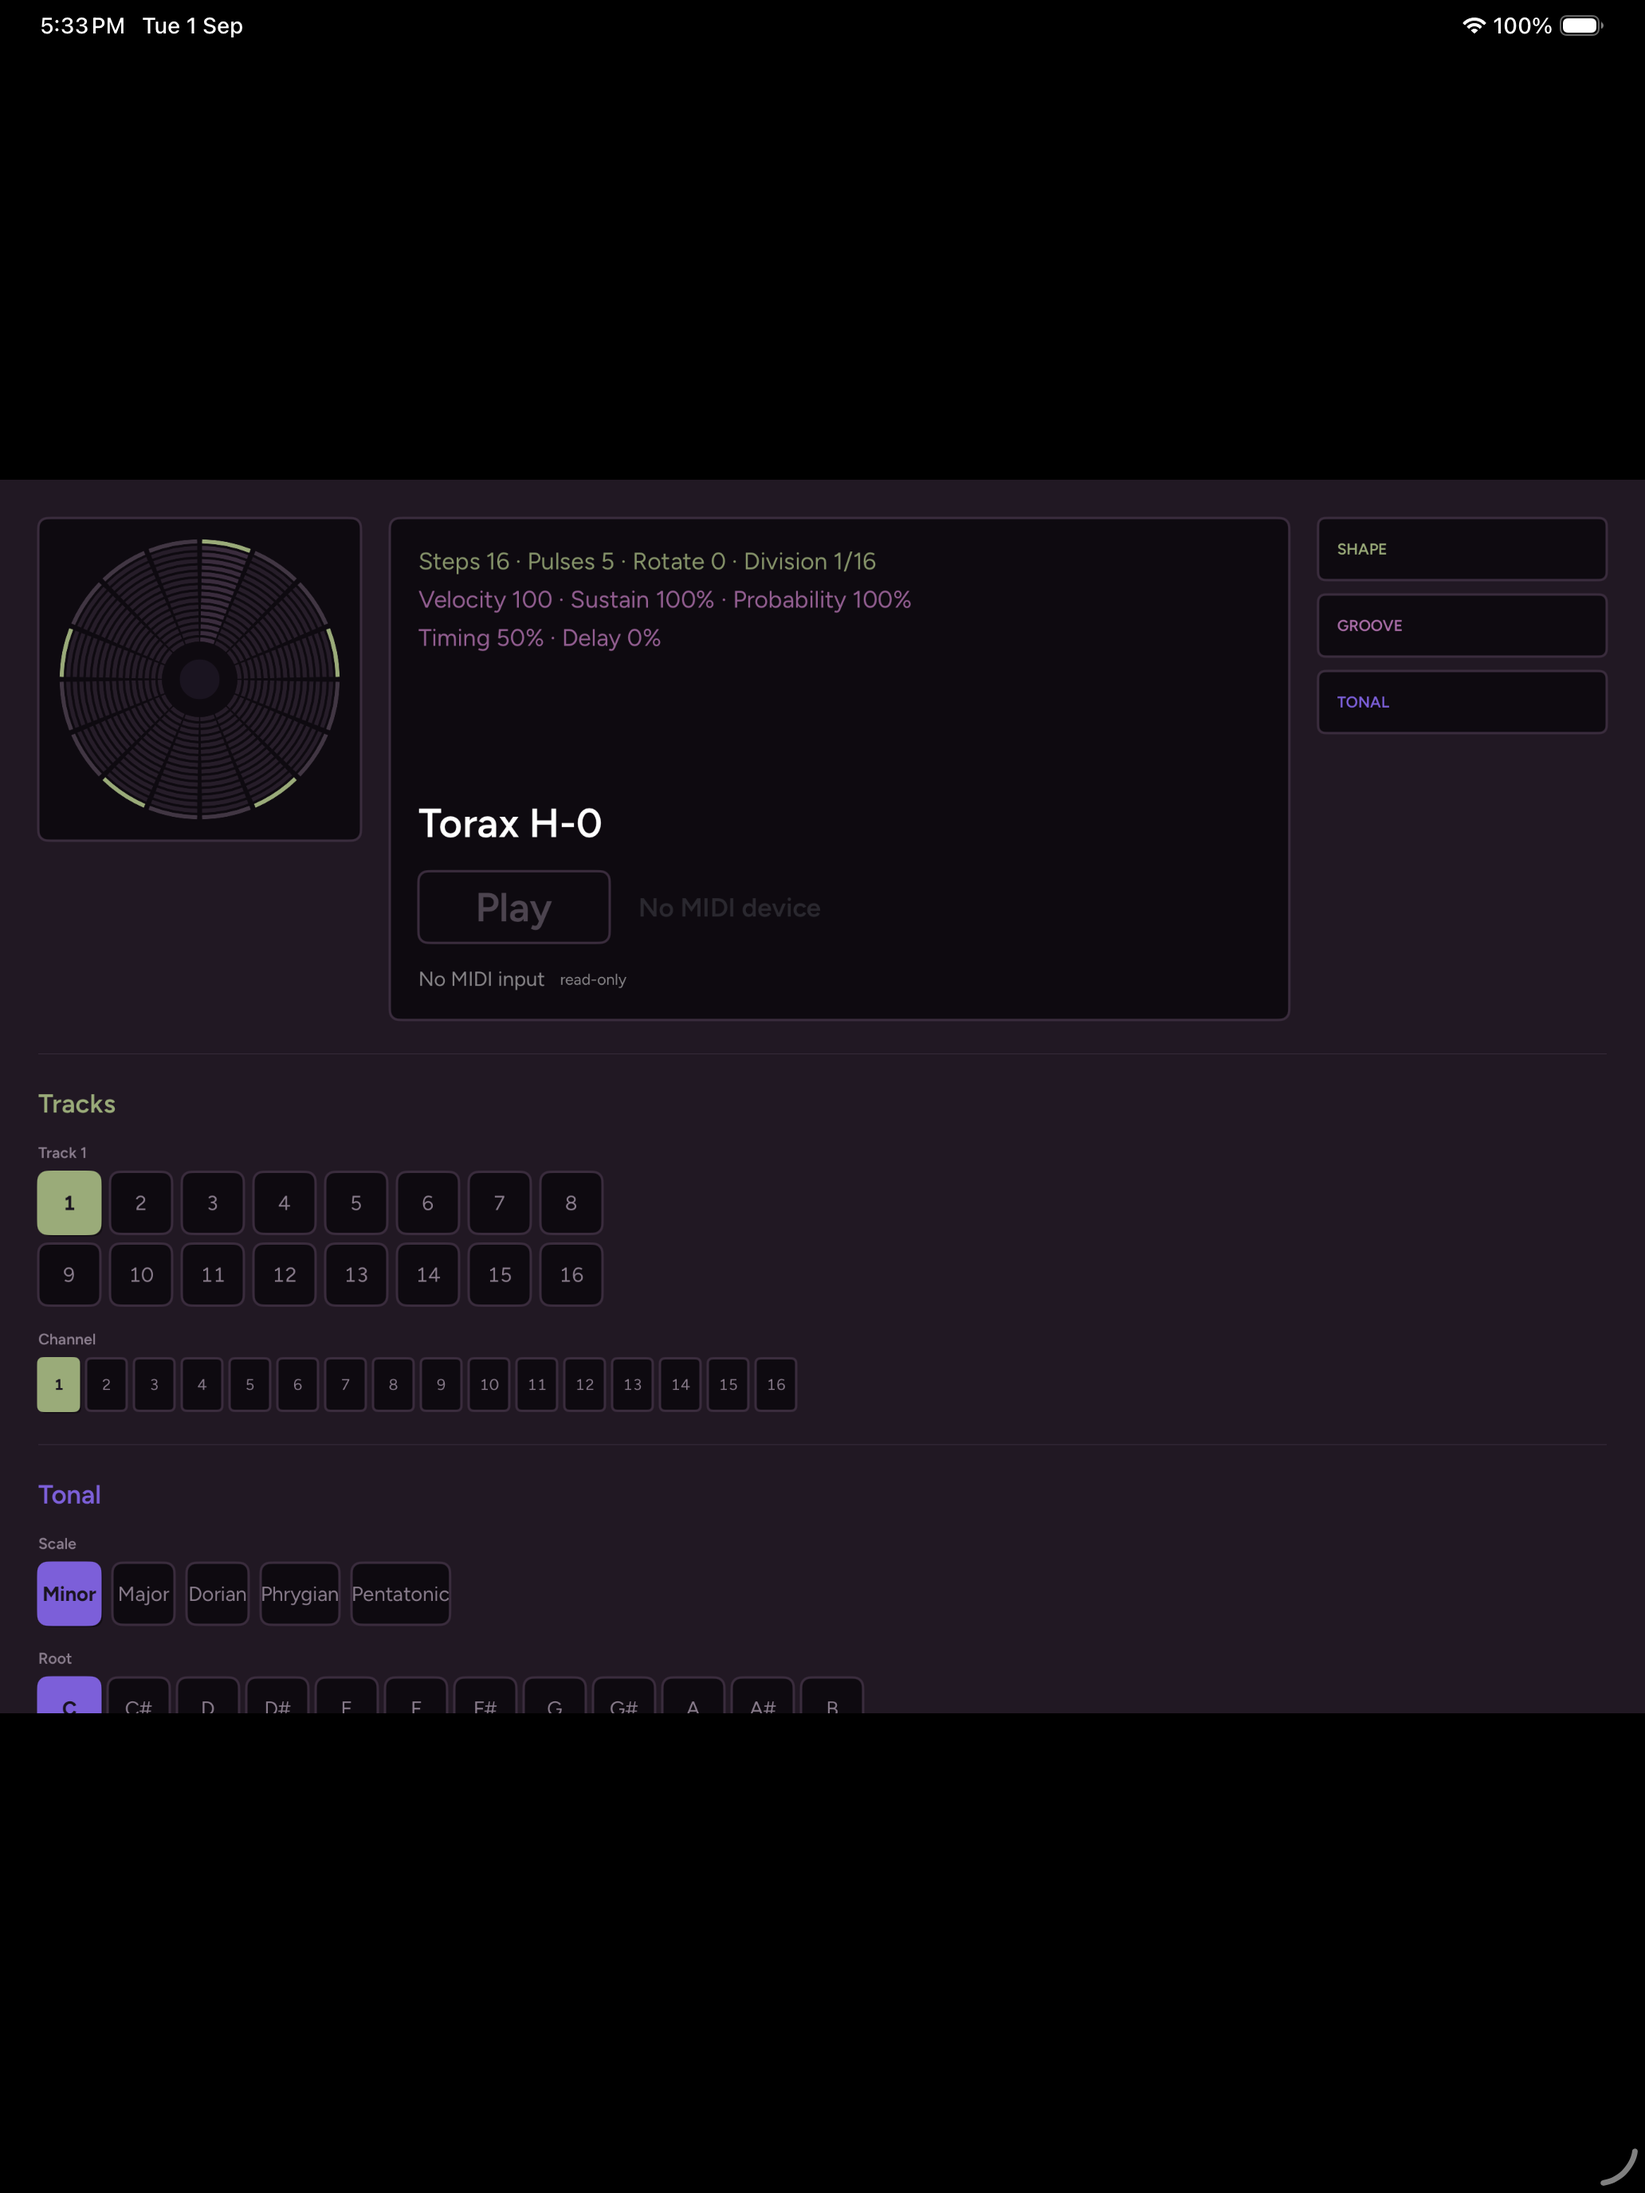
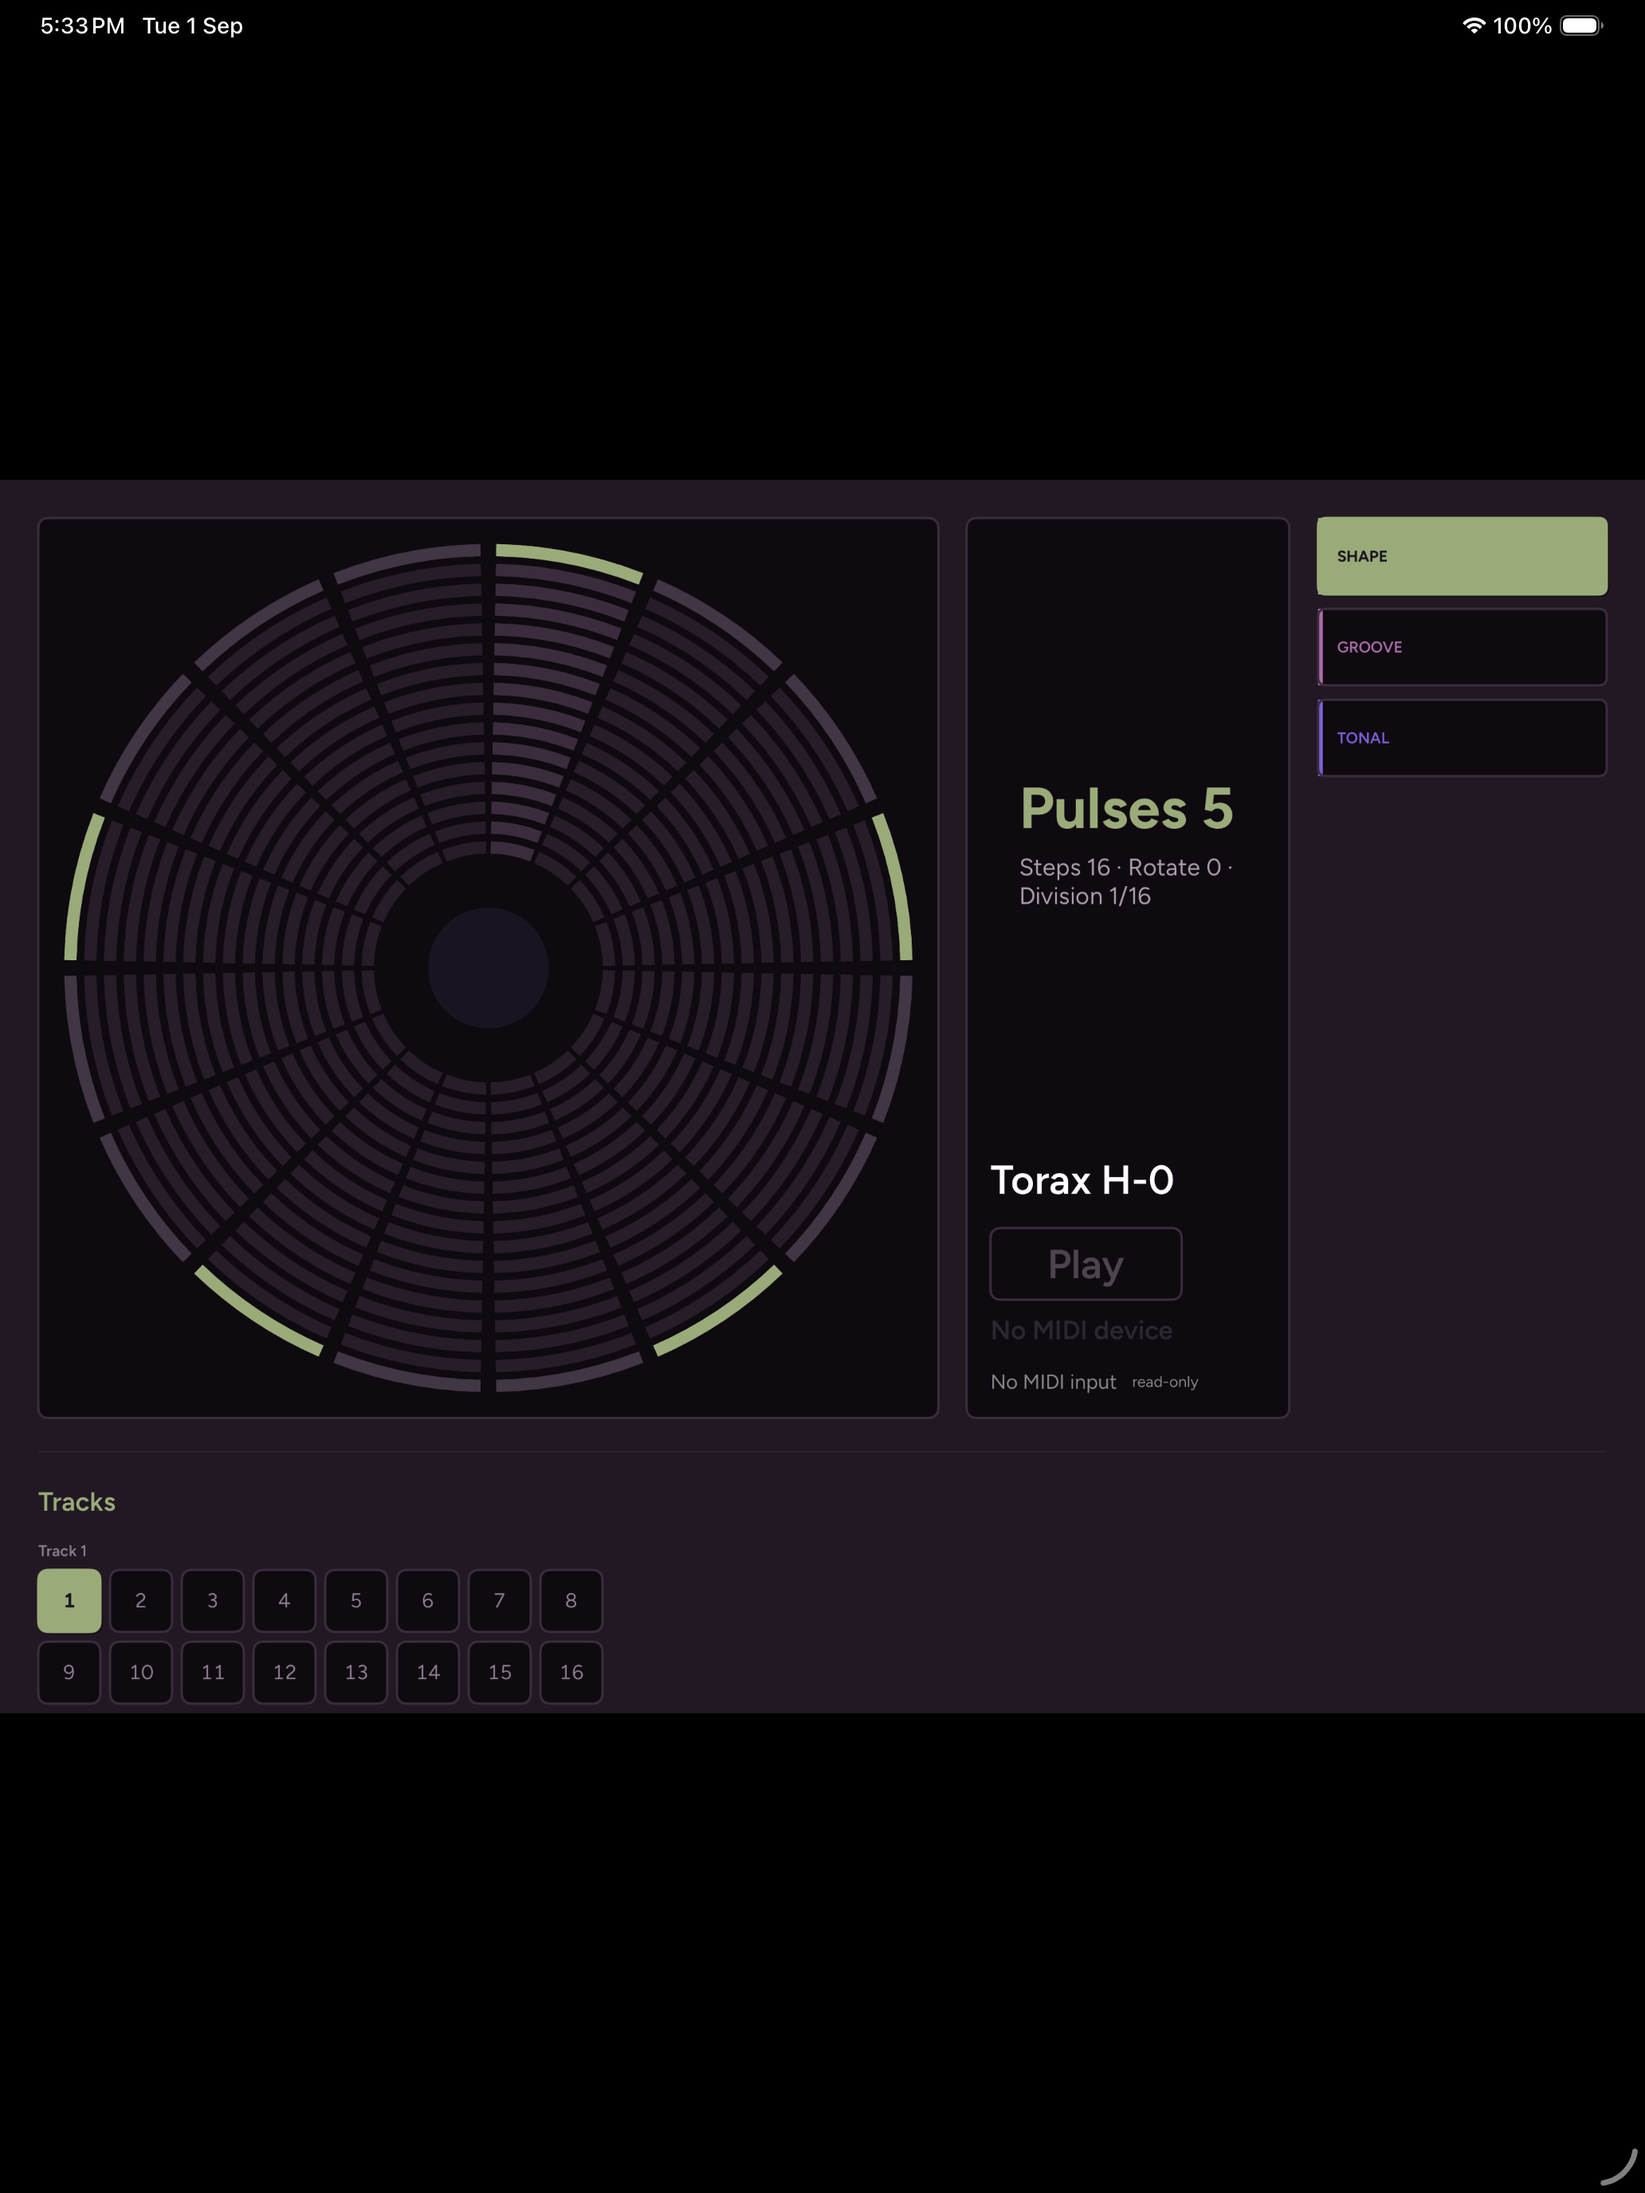
feat(ui): Give the rings the wide column and the readout the narrow one
The handoff contradicts itself here and the app wins. Its mock gives the ring
190px of 924 — a fifth — and the rest to the reading, but those proportions were
drawn for five rings. With sixteen, a fifth of the width leaves each band around
6px and the map stops being countable, which is exactly the risk FR2 declares.

So the split is inverted, decided with the user while looking at the screen. The
rings take the wide column and the reading takes the narrow one, which is what
product-guidelines.md implies anyway: what is expressive is the musical
material, and the rings are the material.

Reading and tabs are sized first and the rings take what is left, so on a wider
iPad the extra space goes where it shows — more separation between bands — and
not into stretching text that already fitted.

Two things the narrow column broke and this fixes: the transport row stacks
vertically, because in a narrow panel "No MIDI device" was wrapping letter by
letter; and the family tabs get a fixed height, because otherwise the VStack
shared the ring's height between the three and they came out ring-sized.

diff --git a/App/ContentView.swift b/App/ContentView.swift
@@ -33,9 +33,20 @@ struct ContentView: View {
     @State private var family: ParameterFamily = .shape
 
     var body: some View {
+        // **El ancho se lee una vez, arriba.** La altura del escenario depende
+        // del ancho —el anillo es cuadrado y llena su columna— y un
+        // `GeometryReader` dentro del `ScrollView` no puede dar las dos cosas
+        // sin quedar circular: el `ScrollView` pregunta la altura al contenido y
+        // el contenido la sacaría del `ScrollView`.
+        GeometryReader { screen in
+            content(width: screen.size.width - 64)
+        }
+    }
+
+    private func content(width: CGFloat) -> some View {
         ScrollView {
             VStack(alignment: .leading, spacing: 28) {
-                stage
+                stage(width: width)
                 Divider().overlay(Palette.border)
                 TrackSelectorView(
                     selected: model.selectedTrackIndex,
@@ -85,39 +96,47 @@ struct ContentView: View {
     /// que se lee de un vistazo es la *forma* —cuáles tienen material, cuál está
     /// elegido, por dónde va el tiempo—, no el detalle de un Step. El detalle es
     /// el panel.
-    private var stage: some View {
-        GeometryReader { geometry in
-            HStack(alignment: .top, spacing: 24) {
-                rings
-                    .frame(width: Self.ringColumnWidth(in: geometry.size.width))
+    private func stage(width: CGFloat) -> some View {
+        let columns = Self.columns(in: width)
 
-                readout
-                    .frame(maxWidth: .infinity, maxHeight: .infinity)
+        return HStack(alignment: .top, spacing: Self.gutter) {
+            rings
+                .frame(width: columns.rings, height: columns.rings)
 
-                families
-                    .frame(width: Self.familyColumnWidth(in: geometry.size.width))
-            }
+            readout
+                .frame(width: columns.readout, height: columns.rings)
+
+            families
+                .frame(width: columns.families, height: columns.rings)
         }
-        .frame(height: 420)
     }
 
-    /// Las proporciones del handoff, como fracciones.
-    ///
-    /// El mock mide 924 puntos de ancho y reparte 190 al anillo y 170 a los
-    /// tabs. **Se guardan como fracción y no como puntos** porque el iPad más
-    /// grande es medio ancho mayor que el mock: a puntos fijos, el anillo
-    /// encogería en relativo hasta perderse y el centro se llevaría todo lo que
-    /// sobra.
-    ///
-    /// El mínimo existe porque por debajo de él dieciséis bandas dejan de
-    /// contarse; el máximo, porque el anillo no es el protagonista de la
-    /// superficie aunque lo sea de la lectura.
-    static func ringColumnWidth(in total: CGFloat) -> CGFloat {
-        min(max(total * (190.0 / 924.0), 190), 320)
-    }
+    /// El hueco entre columnas.
+    static let gutter: CGFloat = 24
 
-    static func familyColumnWidth(in total: CGFloat) -> CGFloat {
-        min(max(total * (170.0 / 924.0), 170), 260)
+    /// El reparto horizontal.
+    ///
+    /// > **Aquí el handoff se contradice consigo mismo, y gana la app.** El mock
+    /// > da al anillo 190 puntos de 924 —un quinto— y el resto a la lectura. Esas
+    /// > proporciones se dibujaron para **cinco** anillos; con dieciséis, un
+    /// > quinto del ancho deja cada banda en unos 6 puntos y el mapa deja de
+    /// > poder contarse. El anillo es lo que la pantalla existe para enseñar
+    /// > —`product-guidelines.md`: lo expresivo es el material musical— así que
+    /// > se lleva el ancho grande y la lectura se queda con el estrecho.
+    /// >
+    /// > **Decidido con el usuario el 2026-09-01**, viendo la pantalla:
+    /// > «la columna central es demasiado grande; el ancho del anillo debería ser
+    /// > el ancho actual de la columna central».
+    ///
+    /// La lectura y los tabs se calculan primero y **el anillo se queda con lo
+    /// que sobra**: así, en un iPad más ancho, el espacio de más va a donde se
+    /// nota —más separación entre bandas— y no a estirar un texto que ya cabía.
+    static func columns(in total: CGFloat) -> (rings: CGFloat, readout: CGFloat, families: CGFloat)
+    {
+        let families = min(max(total * (170.0 / 924.0), 170), 260)
+        let readout = min(max(total * (190.0 / 924.0), 190), 320)
+        let rings = max(total - families - readout - gutter * 2, 240)
+        return (rings, readout, families)
     }
 
     /// La columna izquierda: los dieciséis anillos y nada más.
@@ -162,7 +181,7 @@ struct ContentView: View {
             transport
         }
         .frame(maxWidth: .infinity, alignment: .leading)
-        .padding(24)
+        .padding(20)
         .brutalistPanel()
     }
 
@@ -222,7 +241,9 @@ struct ContentView: View {
                     .foregroundStyle(isActive ? Palette.toolbar : accent)
                 Spacer(minLength: 0)
             }
-            .frame(minHeight: 52)
+            // Alto fijo: sin él, el `VStack` reparte entre los tres el alto de
+            // la columna y los tabs quedan del tamaño del anillo.
+            .frame(height: 64)
             .padding(.trailing, 16)
         }
         .buttonStyle(.plain)
@@ -277,7 +298,10 @@ struct ContentView: View {
             Text("Torax H-0")
                 .font(Typography.appTitle)
 
-            HStack(spacing: 24) {
+            // **En columna y no en fila.** Con el panel de lectura estrecho
+            // (FR14) una fila deja `No MIDI device` partiéndose letra a letra,
+            // que es peor que ocupar dos renglones.
+            VStack(alignment: .leading, spacing: 12) {
                 // **Era `.borderedProminent`, que dibuja una pastilla completa**,
                 // y FR9 lo prohíbe: el radio pequeño y constante es lo que hace
                 // que la pantalla se lea como un aparato y no como un formulario.

diff --git a/conductor/tracks/screen-handoff_20260901/spec.md b/conductor/tracks/screen-handoff_20260901/spec.md
@@ -143,22 +143,20 @@ composición sin mock que la respalde sería inventar producto, que es justo lo
 que esta rebanada dice no hacer. El iPad se usa apaisado, delante del
 controlador.
 
-> **Lo que esto le cuesta a FR2.** En el mock, el anillo ocupa **190px de 924**:
-> una columna izquierda estrecha, no la mitad de la pantalla. Dieciséis bandas en
-> 190px son unos 6px por banda. El riesgo de legibilidad del playhead a un metro
-> es bastante más agudo de lo que sugiere mirar el anillo en grande, y es ahí
-> —a su tamaño real, apaisado— donde la Fase 6 tiene que juzgarlo.
+> **Lo que esto le costaba a FR2, y cómo se resolvió.** Con los 190px de 924 del
+> mock, dieciséis bandas quedaban en unos 6px cada una y el playhead era
+> ilegible por construcción. **FR14 invierte el reparto** y el anillo pasa a
+> llevarse el ancho grande, que es la respuesta a ese riesgo tomada antes de
+> llegar al dispositivo. La Fase 6 lo confirma a un metro.
 
 ### FR14 — Los anillos a la izquierda, todo lo demás a la derecha
 
 **Añadido el 2026-09-01**, junto a FR13 y por la misma razón: estaba supuesto y
 no escrito.
 
-La composición apaisada es la del handoff, y su reparto horizontal es una
-decisión, no una consecuencia del espacio: **los anillos ocupan una columna
-estrecha a la izquierda —190px de 924 en el mock— y todo lo demás vive a su
-derecha**: el panel de lectura en el centro, y los tabs de familia en una
-columna de 170px al borde. El selector de Tracks va debajo, cruzando el ancho.
+**Los anillos a la izquierda y todo lo demás a su derecha**: el panel de lectura
+en el centro y los tabs de familia en la columna del borde. El selector de Tracks
+va debajo, cruzando el ancho.
 
 **Por qué importa que sea izquierda y no centro.** Hoy `ContentView` apila todo
 en una sola columna vertical con el anillo arriba, que es lo que la rebanada 1
@@ -166,9 +164,20 @@ necesitaba para operar y no lo que la pantalla del producto es. Poner los anillo
 a un lado y la lectura al otro es lo que permite que el valor grande no los tape
 nunca (FR3): son dos regiones que no se solapan, en vez de una encima de otra.
 
-**El anillo pequeño es intencional.** Ocupa un quinto del ancho porque lo que se
-lee de un vistazo es *la forma* —cuáles tienen material, cuál está elegido, por
-dónde va el tiempo—, no el detalle de un Step. El detalle es el panel.
+> **Aquí el handoff se contradice consigo mismo, y gana la app.** El mock da al
+> anillo 190px de 924 —un quinto— y el resto a la lectura. Esas proporciones se
+> dibujaron para **cinco** anillos; con dieciséis, un quinto del ancho deja cada
+> banda en unos 6px y el mapa deja de poder contarse — que es exactamente el
+> riesgo que FR2 declara.
+>
+> **Se invierte el reparto, decidido con el usuario el 2026-09-01 viendo la
+> pantalla:** el anillo se lleva el ancho grande y la lectura se queda con el
+> estrecho. Es lo coherente con `product-guidelines.md` —lo expresivo es el
+> material musical, todo lo demás es soporte—: el anillo *es* el material.
+>
+> La lectura y los tabs se calculan primero y **el anillo se queda con lo que
+> sobra**, así que en un iPad más ancho el espacio de más va a donde se nota
+> —más separación entre bandas— y no a estirar un texto que ya cabía.
 
 ### FR9 — El lenguaje neo-brutalista es un sistema, no un estilo por vista
 
